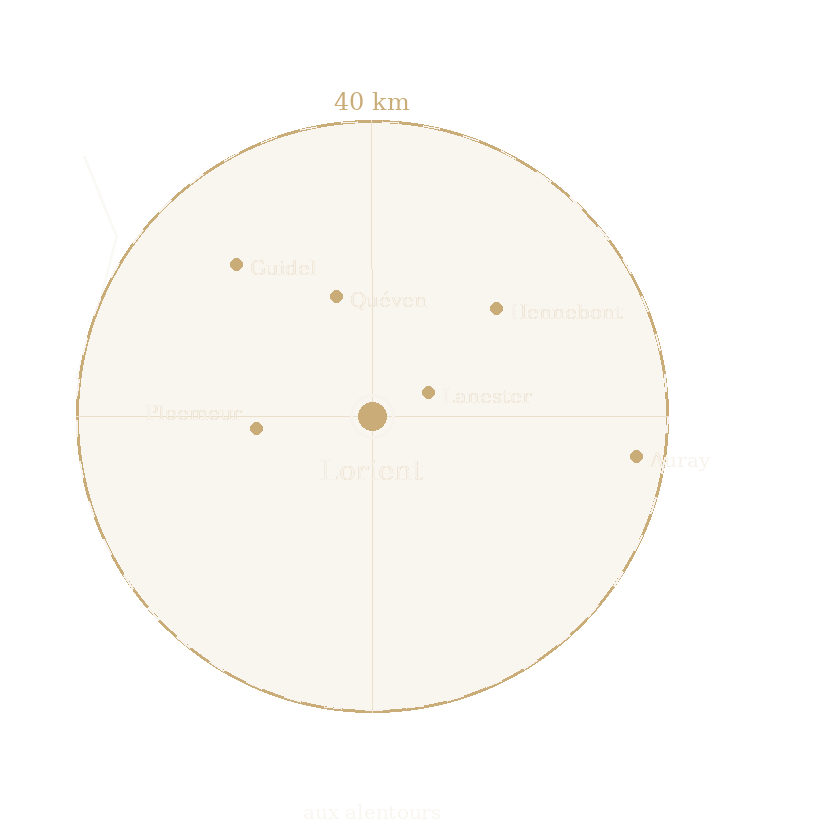
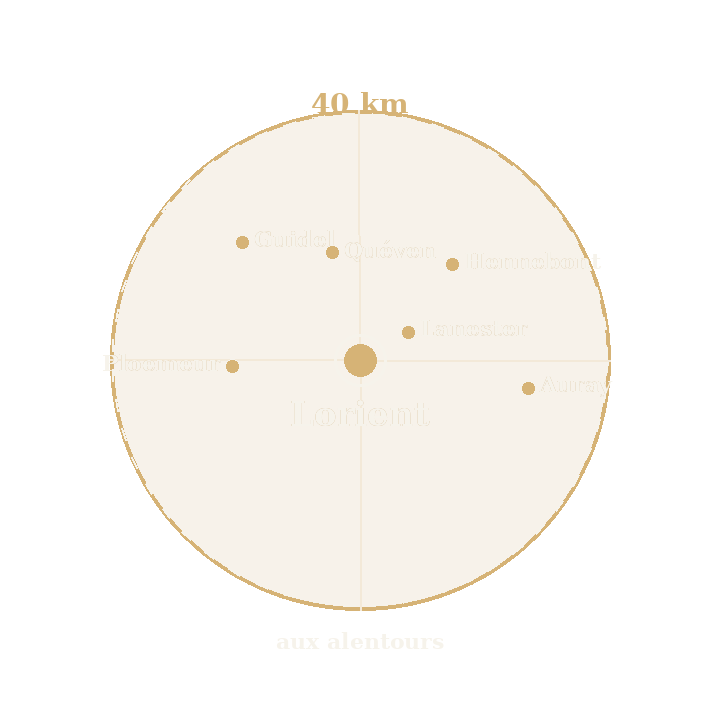
fix(lp): schéma 40 km collé sur la photo, plus d’image cassée
Le SVG en overlay affichait l’alt sur un pavé blanc. Le rayon Lorient
est maintenant dessiné sur lp-rue-zone.jpg.

diff --git a/clarteo/site/css/lp.css b/clarteo/site/css/lp.css
@@ -87,7 +87,7 @@ body.ad .nav,
   width: 100%;
   height: min(78vh, 720px);
   object-fit: cover;
-  object-position: 28% 60%;
+  object-position: 62% 38%;
 }
 .bleed .on {
   position: absolute;
@@ -95,15 +95,6 @@ body.ad .nav,
   padding: 48px 0 32px;
   background: linear-gradient(transparent, rgba(20,18,14,.82));
   color: #f6f2ea;
-}
-.bleed .schema {
-  position: absolute;
-  top: 16px;
-  right: 16px;
-  width: min(300px, 46vw);
-  height: auto;
-  pointer-events: none;
-  filter: drop-shadow(0 2px 10px rgba(0,0,0,.55));
 }
 .bleed h1 {
   font-family: var(--serif);
@@ -274,8 +265,7 @@ footer a { color: var(--ink); }
 
 @media (max-width: 860px) {
   .sheet, .pair, .row2 { grid-template-columns: 1fr; }
-  .bleed img { height: 58vh; object-position: 20% 55%; }
-  .bleed .schema { width: min(168px, 40vw); top: 10px; right: 10px; }
+  .bleed img { height: 58vh; object-position: 62% 35%; }
   .pair img { height: 240px; }
   .sticky { display: block; }
   .stack { padding-bottom: 28px; }

diff --git a/clarteo/site/lp.html b/clarteo/site/lp.html
@@ -19,8 +19,7 @@
   </div>
 
   <figure class="bleed">
-    <img src="img/lp-rue.jpg" alt="Devanture de commerce, intérieur visible depuis la rue">
-    <img class="schema" src="img/lorient-40km.svg" alt="Lorient et 40 km autour">
+    <img src="img/lp-rue-zone.jpg" alt="Devanture de commerce, Lorient et 40 km autour">
     <div class="on">
       <div class="wrap">
         <h1 data-h1>Vitrines nettes. Le passant voit le magasin.</h1>
